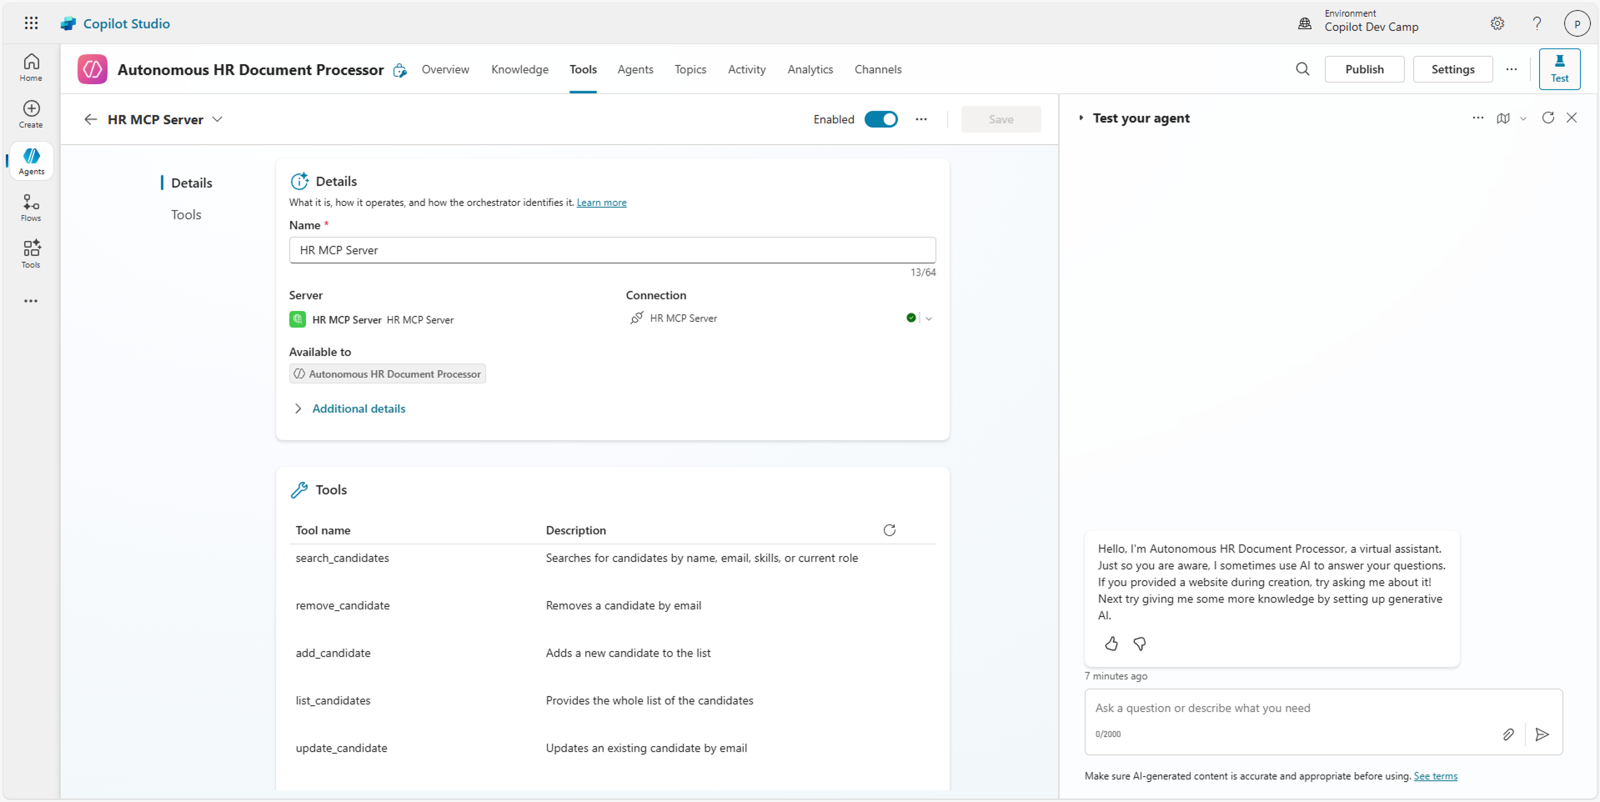
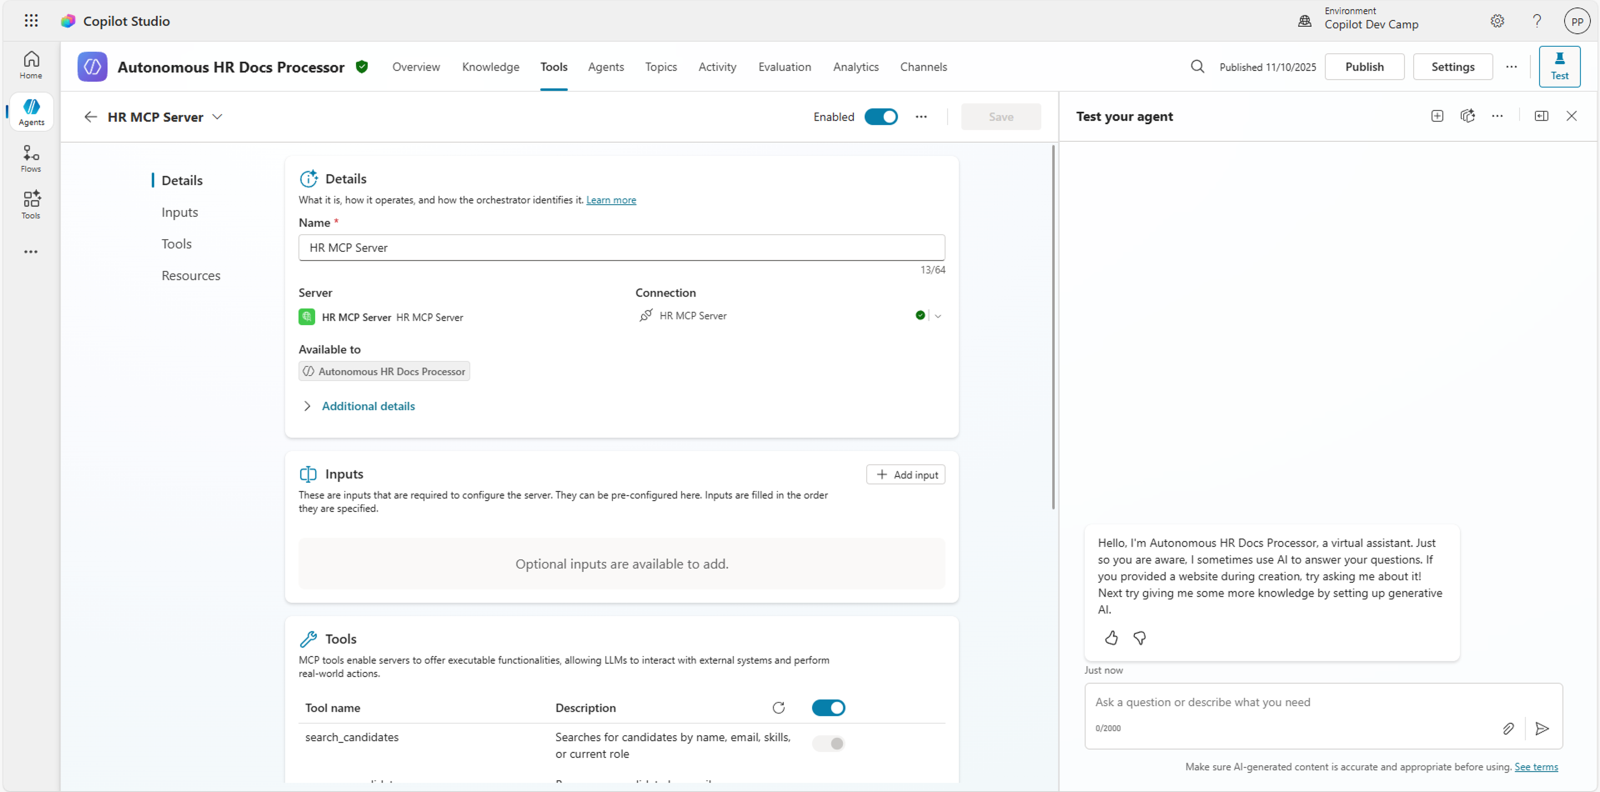
Updated UI/UX for lab MCS7

diff --git a/docs/pages/make/copilot-studio/07-autonomous.md b/docs/pages/make/copilot-studio/07-autonomous.md
@@ -97,9 +97,9 @@ In this exercise you are going to create the autonomous agent in Microsoft Copil
 
 Open a browser and, using the work account of your target Microsoft 365 tenant, go to [https://copilotstudio.microsoft.com](https://copilotstudio.microsoft.com){target=_blank} to start using Microsoft Copilot Studio.
 
-Select the `Copilot Dev Camp` environment that you created in previous labs, then select **Create** in the left navigation menu, and choose **Agent** to create a new agent.
+Select the `Copilot Dev Camp` environment that you created in previous labs, then from the middle of the home page of Copilot Studio select **Create an agent** to create a new agent.
 
-Choose to **Configure** and define your autonomous agent with the following settings:
+Configure your autonomous agent with the following settings:
 
 - **Name**: 
 
@@ -136,7 +136,7 @@ DO NOT invent or assume fake data about candidates. AVOID allucinations.
 You MUST ONLY process real and existing data.
 ```
 
-Select **Create** to create your autonomous agent.
+Select **Publish** to publish your autonomous agent.
 
 <cc-end-step lab="mcs7" exercise="2" step="1" />
 
@@ -144,11 +144,7 @@ Select **Create** to create your autonomous agent.
 
 After creating the agent, you need to ensure that its capabilities are enhanced with generative AI reasoning and knowledge integration.
 
-In the **Orchestration** section, ensure that the **Use generative AI to determine how best to respond to users and events** is enabled. This enables the agent to intelligently process different types of events and determine the appropriate actions.
-
-![The agent configuration page showing the orchestration settings with generative AI enabled for autonomous processing.](../../../assets/images/make/copilot-studio-07/autonomous-agent-01.png)
-
-In the **Knowledge** section, you can optionally add knowledge sources if you have specific HR documentation or candidate processing guidelines. For this lab, we'll rely on the agent's built-in AI capabilities and the MCP server integration.
+In the **Knowledge** section of the agent, you can optionally add knowledge sources if you have specific HR documentation or candidate processing guidelines. For this lab, we'll rely on the agent's built-in AI capabilities and the MCP server integration.
 
 In case of any configuration changes, select **Save** to confirm them.
 
